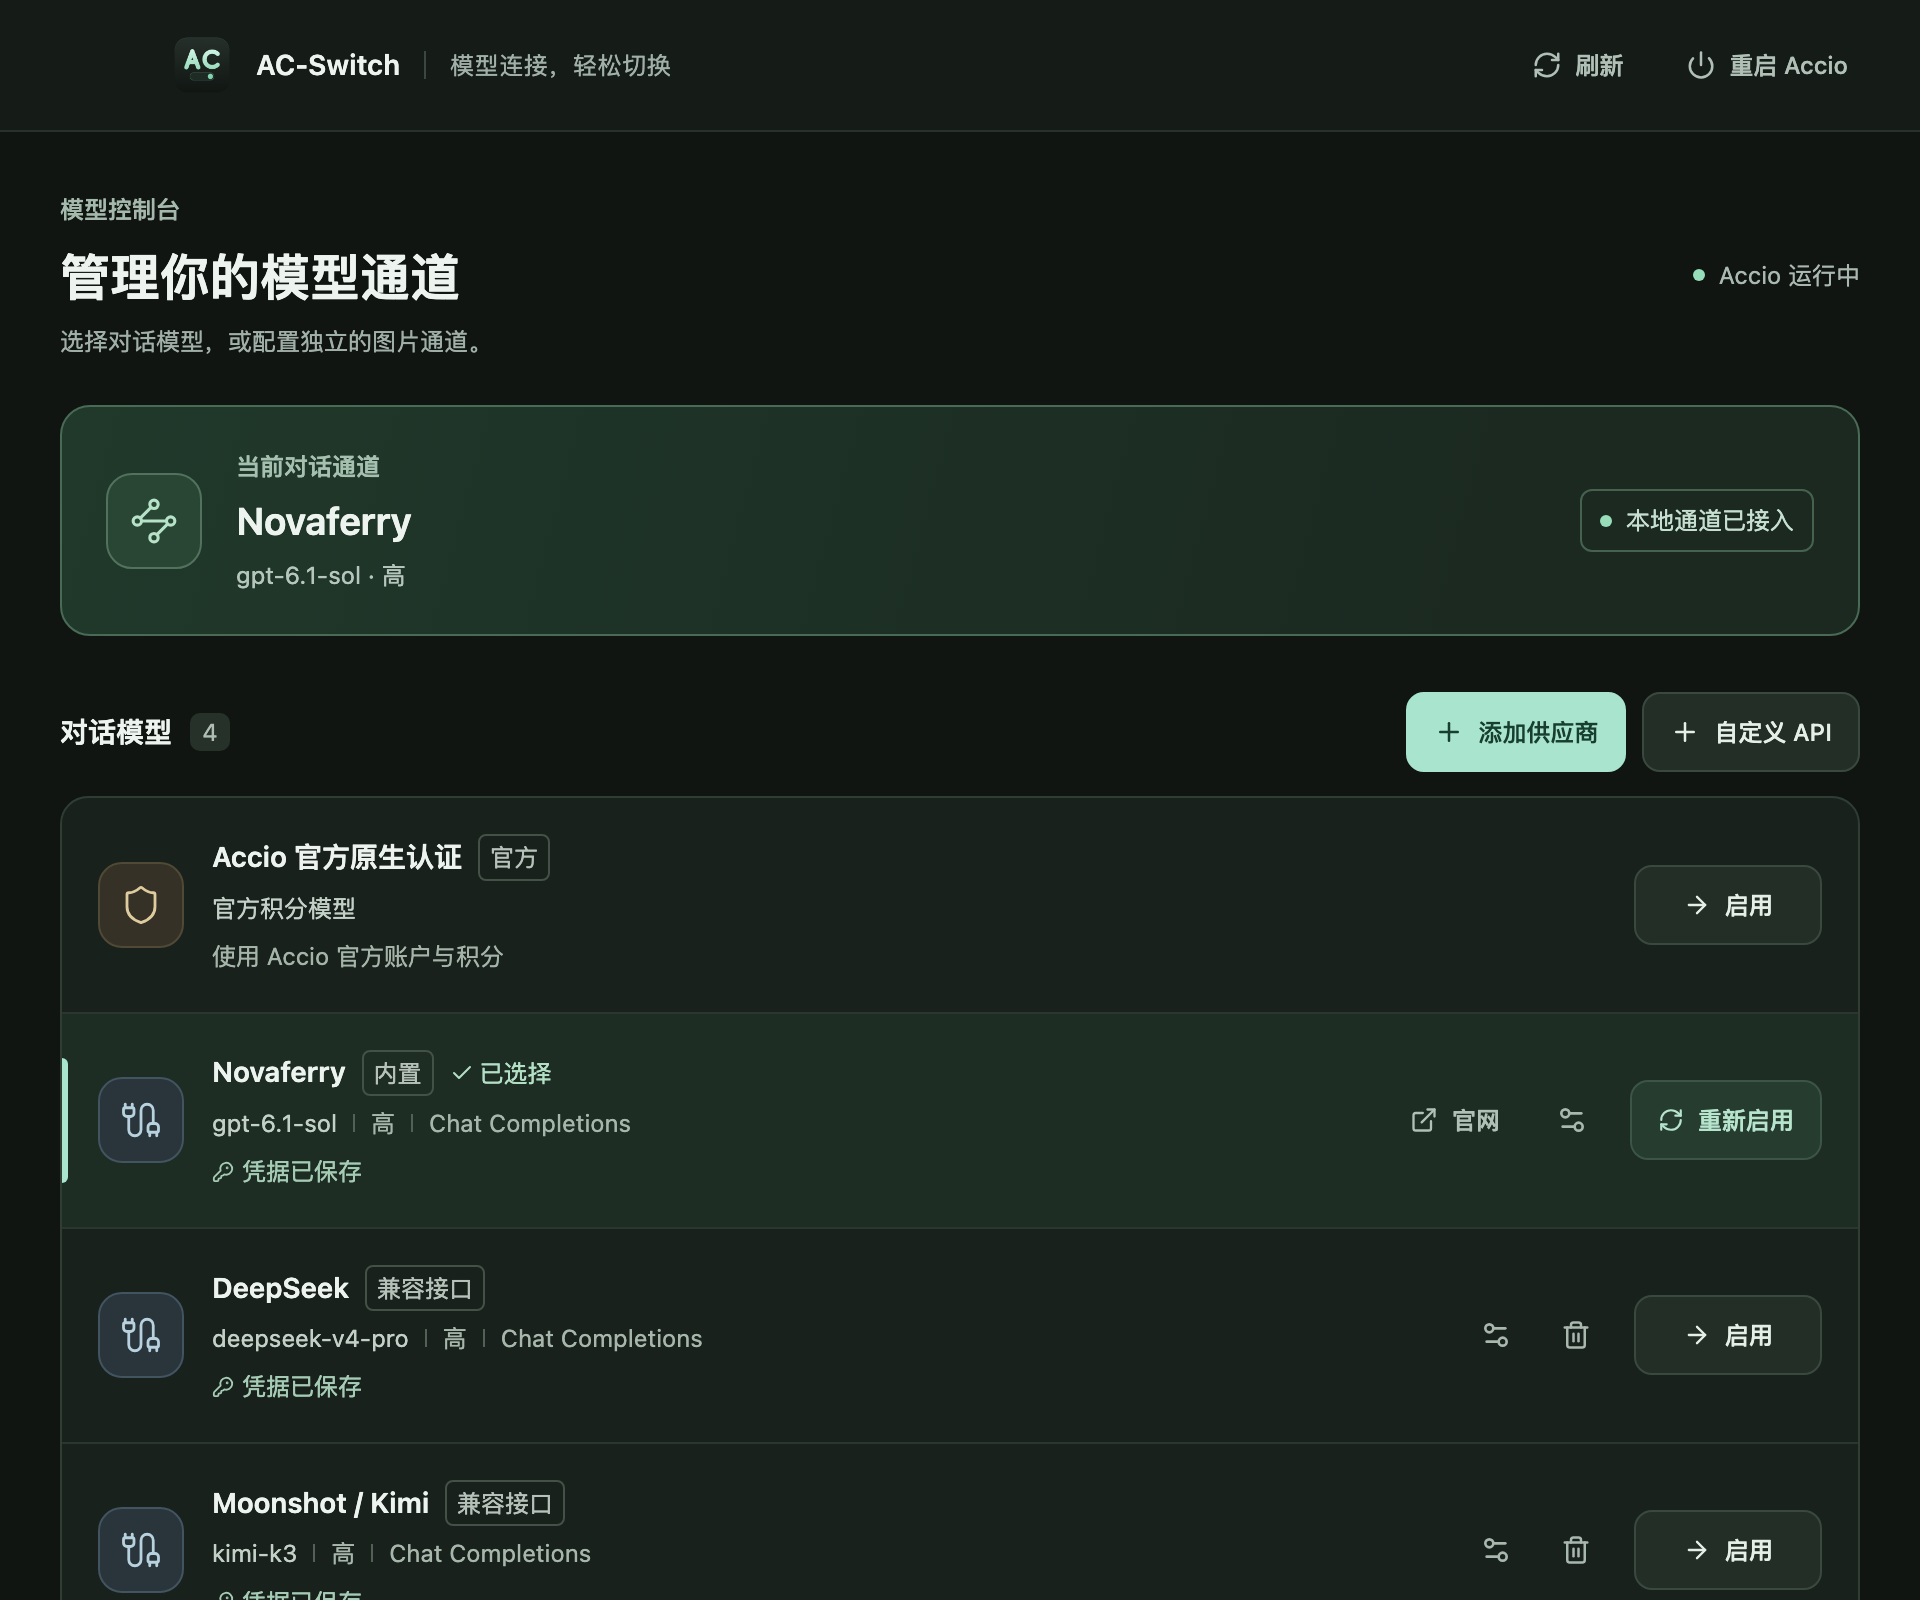
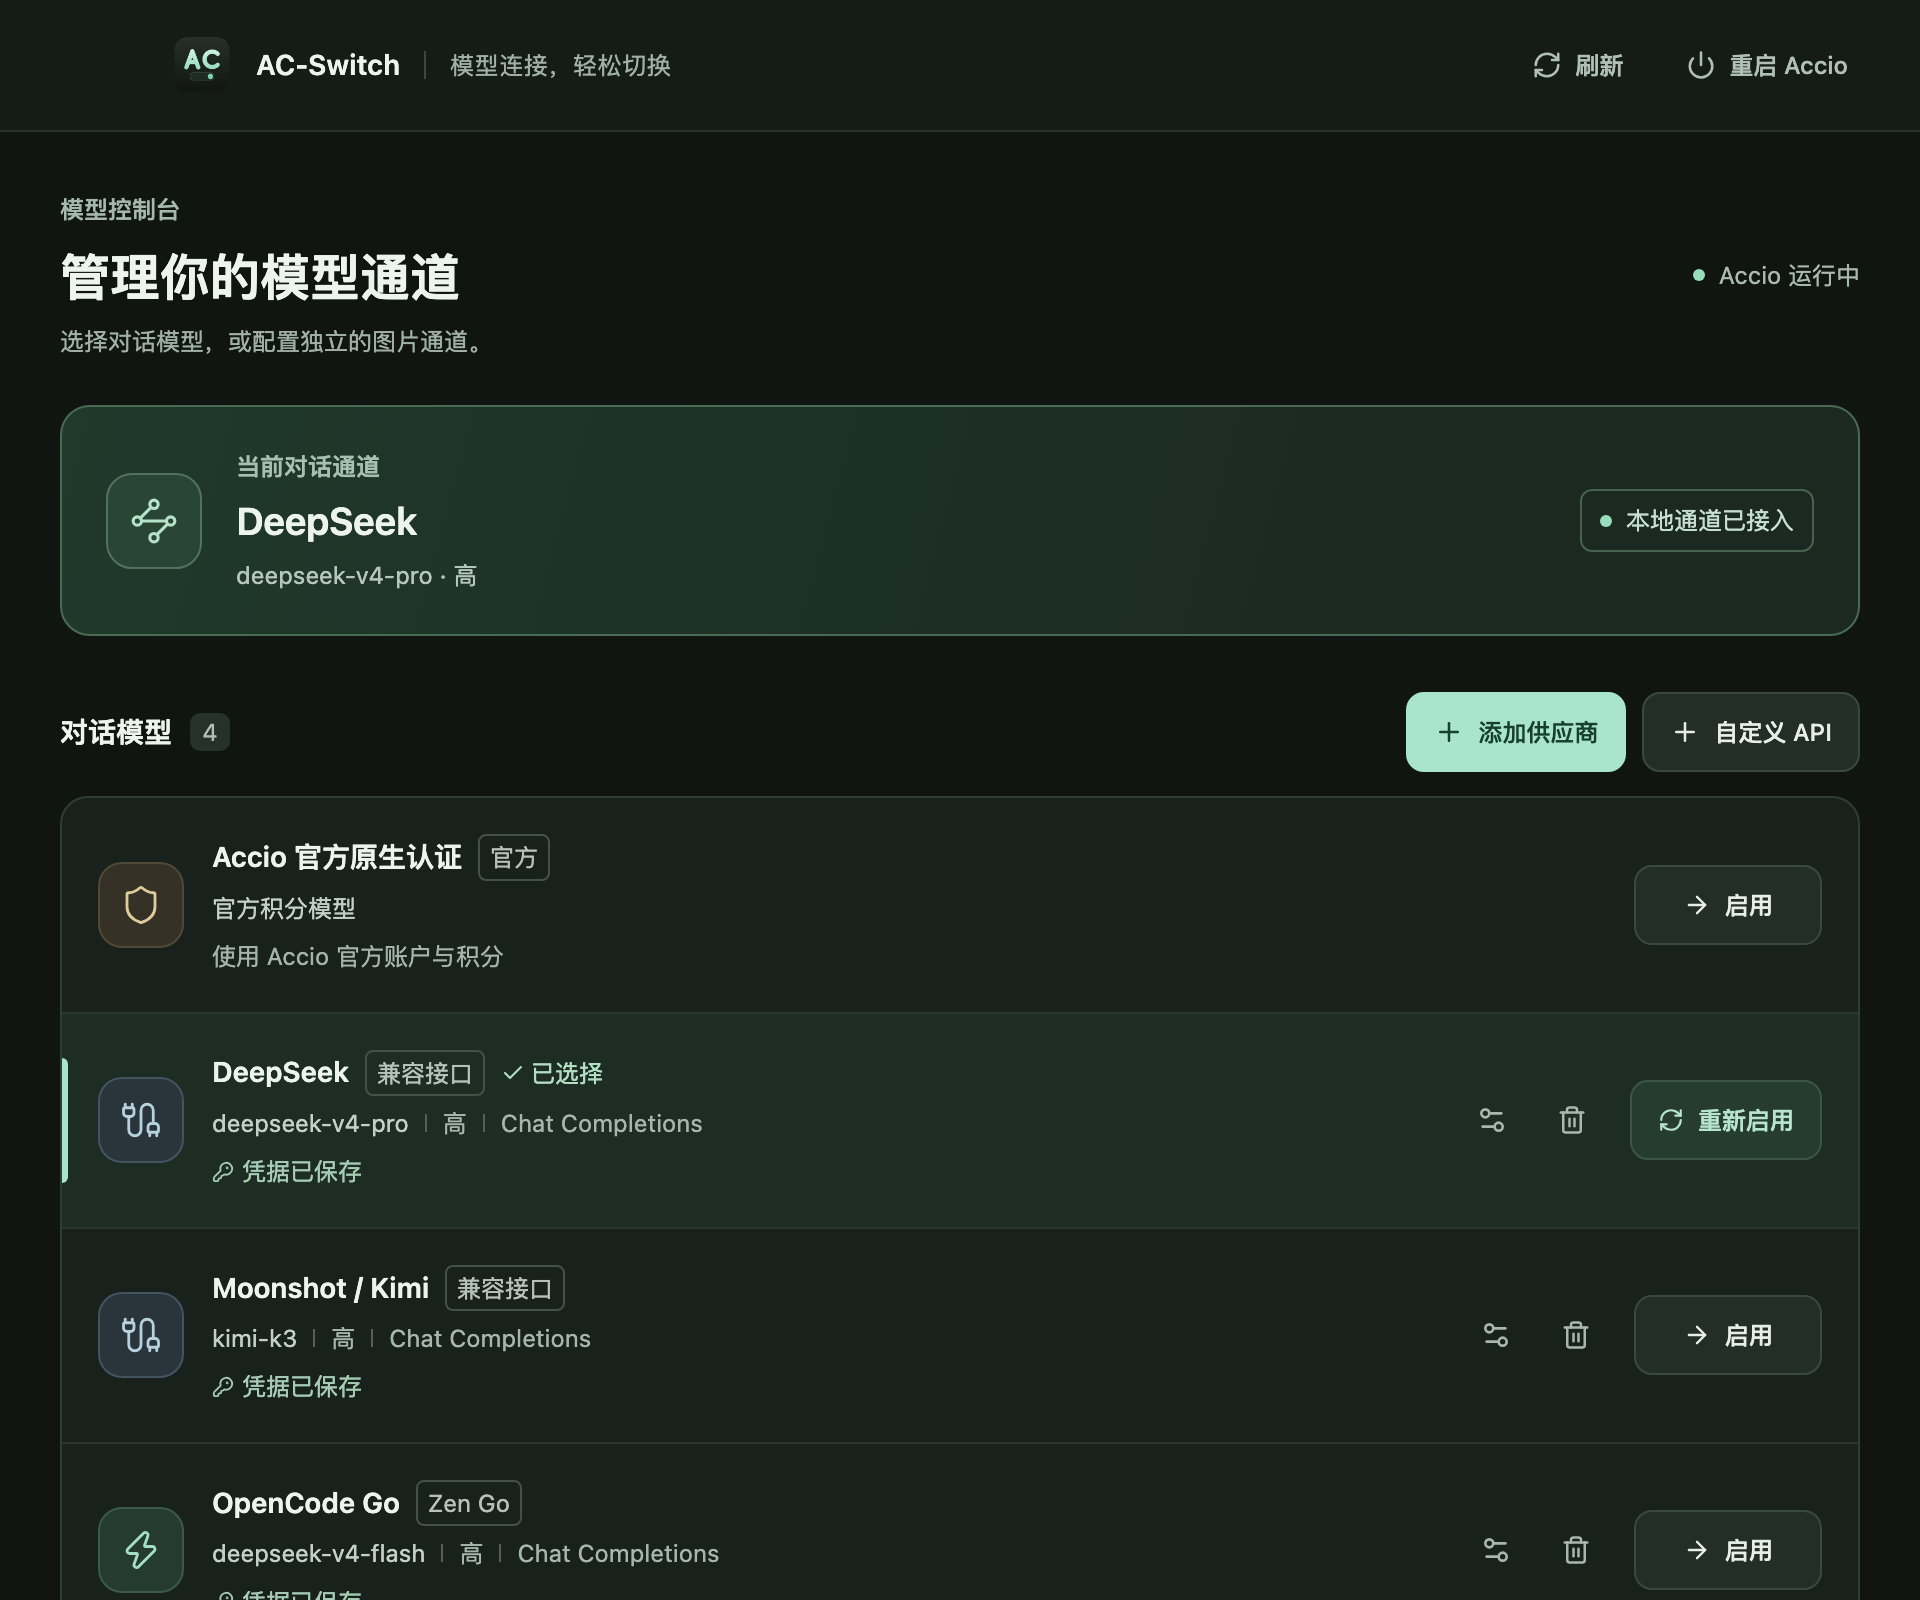
docs: README、更新记录和截图去掉 Novaferry；修复没填 Key 时取模型列表报错

diff --git a/src/App.tsx b/src/App.tsx
@@ -168,6 +168,8 @@ export default function App() {
   // 打开编辑窗口或改了地址、Key 后，用这个 Key 向供应商读取可用模型（停顿 0.5 秒再请求）
   useEffect(() => {
     if (!editing || !/^https?:\/\/[^/]/.test(listEndpoint)) { setModelList(null); return; }
+    // 预设供应商还没有 Key 时请求必然失败，等填了 Key 再取
+    if (editingPreset && !editing.hasKey && !editing.apiKey.trim()) { setModelList({ request: listRequest, loading: false, models: [], error: "" }); return; }
     let cancelled = false;
     setModelList(current => ({ request: listRequest, loading: true, models: current?.models || [], error: "" }));
     const timer = setTimeout(() => {
@@ -408,7 +410,7 @@ export default function App() {
             {error ? <div className="notice notice-error" role="alert"><AlertCircle size={16} /><p>{error}</p></div> : null}
             <Field label="API Key"><TextField required={Boolean(editingPreset && !editing.hasKey)} type="password" autoComplete="off" value={editing.apiKey} placeholder={editing.hasKey ? "已保存 · 留空保持不变" : "sk-..."} onChange={(e) => setEditing({ ...editing, apiKey: e.target.value })} /><span className="field-help">{editingPreset ? "填写所选平台的 API Key。" : "本地模型可留空。"}已有凭据留空不会修改。{editing.id === NOVAFERRY_ID ? <> 还没有 Key？<button type="button" className="inline-link" onClick={() => run("open-home", () => openUrl(NOVAFERRY_HOME))}>前往 Novaferry 官网</button></> : null}</span></Field>
             {editingPreset ? <div className="form-note"><Info size={14} />已匹配 {editingProtocol === "responses" ? "Responses" : "Chat Completions"} 协议和完整请求地址，通常只需填写 Key，无需修改高级设置。</div> : null}
-            {modelOptions(editingProtocol).length > 0 || modelList ? <Field label="对话模型"><div className="select-wrap"><select value={editing.model} onChange={e => setEditing({ ...editing, model: e.target.value })}>{Array.from(new Set([...modelOptions(editingProtocol), editing.model].filter(Boolean))).map(model => <option key={model} value={model}>{model}</option>)}</select><ChevronDown size={14} /></div><span className="field-help">{modelList?.loading ? "正在用当前 Key 获取模型列表…" : modelList?.error ? `获取模型列表失败：${modelList.error}${editingPreset ? "。先显示预设模型。" : ""}` : modelList && modelList.models.length > 0 ? `已从接口获取 ${modelOptions(editingProtocol).length} 个支持 ${editingProtocol === "responses" ? "Responses" : "Chat Completions"} 的模型。` : "已选择默认模型，可直接保存。"}其他模型可在高级设置填写。</span></Field> : null}
+            {modelOptions(editingProtocol).length > 0 || modelList ? <Field label="对话模型"><div className="select-wrap"><select value={editing.model} onChange={e => setEditing({ ...editing, model: e.target.value })}>{Array.from(new Set([...modelOptions(editingProtocol), editing.model].filter(Boolean))).map(model => <option key={model} value={model}>{model}</option>)}</select><ChevronDown size={14} /></div><span className="field-help">{editingPreset && !editing.hasKey && !editing.apiKey.trim() ? "填入 API Key 后会自动获取可用模型。" : modelList?.loading ? "正在用当前 Key 获取模型列表…" : modelList?.error ? `获取模型列表失败：${modelList.error}${editingPreset ? "。先显示预设模型。" : ""}` : modelList && modelList.models.length > 0 ? `已从接口获取 ${modelOptions(editingProtocol).length} 个支持 ${editingProtocol === "responses" ? "Responses" : "Chat Completions"} 的模型。` : "已选择默认模型，可直接保存。"}其他模型可在高级设置填写。</span></Field> : null}
             <details className="advanced-settings" open={editingPreset ? undefined : true}><summary>高级设置 · 接口、模型与协议</summary><div className="advanced-fields">
             <Field label="供应商名称"><TextField required readOnly={editing.id === NOVAFERRY_ID} value={editing.name} onChange={(e) => setEditing({ ...editing, name: e.target.value })} /></Field>
             <Field label="完整请求地址"><TextField required readOnly={editing.id === NOVAFERRY_ID} value={editing.endpoint} spellCheck={false} onChange={(e) => setEditing({ ...editing, endpoint: e.target.value })} /><span className="field-help">填写实际接收请求的完整 URL，不是官网或 SDK 基础地址。{editing.apiProtocol === "responses" ? "通常以 /responses 结尾。" : "通常以 /chat/completions 结尾。"}</span></Field>

diff --git a/CHANGELOG.md b/CHANGELOG.md
@@ -3,8 +3,8 @@
 ## 0.1.9 — 2026-10-30
 
 - 修复用 Claude 模型时报 `This model does not support assistant message prefill`：Accio 的对话以模型消息结尾时，补一条用户消息「Continue.」让模型接着回答；带工具调用的消息和正常以用户消息结尾的对话不受影响。出现这种情况时模型桥日志会记下各消息的角色顺序。
-- 切到 Responses 协议后仍能识别预设，模型下拉框不再消失；Novaferry 在 Responses 下只列出支持该协议的 GPT 模型（Claude 只支持 Chat Completions），并修正「一个 Key 调用全部模型」的说明：令牌分组需选 auto。
-- 模型下拉框改为用当前 Key 向供应商读取可用模型（`/models` 接口），按所选协议筛选（如 Novaferry 的 Claude 只出现在 Chat Completions 下）；读取失败时退回预设列表，并在下方显示原因。
+- 切到 Responses 协议后仍能识别预设，模型下拉框不再消失；Responses 下只列出支持该协议的模型。
+- 模型下拉框改为用当前 Key 向供应商读取可用模型（`/models` 接口），按所选协议筛选；读取失败时退回预设列表，并在下方显示原因。
 
 ## 0.1.8 — 2026-10-30
 
@@ -17,7 +17,7 @@
 
 ## 0.1.6 — 2026-10-26
 
-- 新增内置 Novaferry 供应商：固定排在列表最前，不能删除，名称和接口地址不可改；卡片上的「官网」按钮和编辑窗口里的链接会打开 https://novaferry.com/ 。思考强度按 OpenAI 方式只传 `reasoning_effort`。
+- 新增一个内置供应商：固定排在列表最前，不能删除，名称和接口地址不可改；卡片上有「官网」按钮。
 - 项目更名为 AC-Switch：应用名、窗口标题、托盘、安装包名、包名与应用标识（`com.fuuuuuu502.ac-switch`）同步修改。
 - 配置目录改为 `~/.ac-switch/`，首次启动时自动迁移旧的 `~/.accio-switch/`；钥匙串服务名改为 `ac-switch`，读取和删除时兼容旧的 `accio-switch` 条目。
 - 换新图标：深色圆角底、薄荷绿「AC」字标加开关，菜单栏托盘图标同步更换；图标源文件放在 `src-tauri/icons/source/`。
